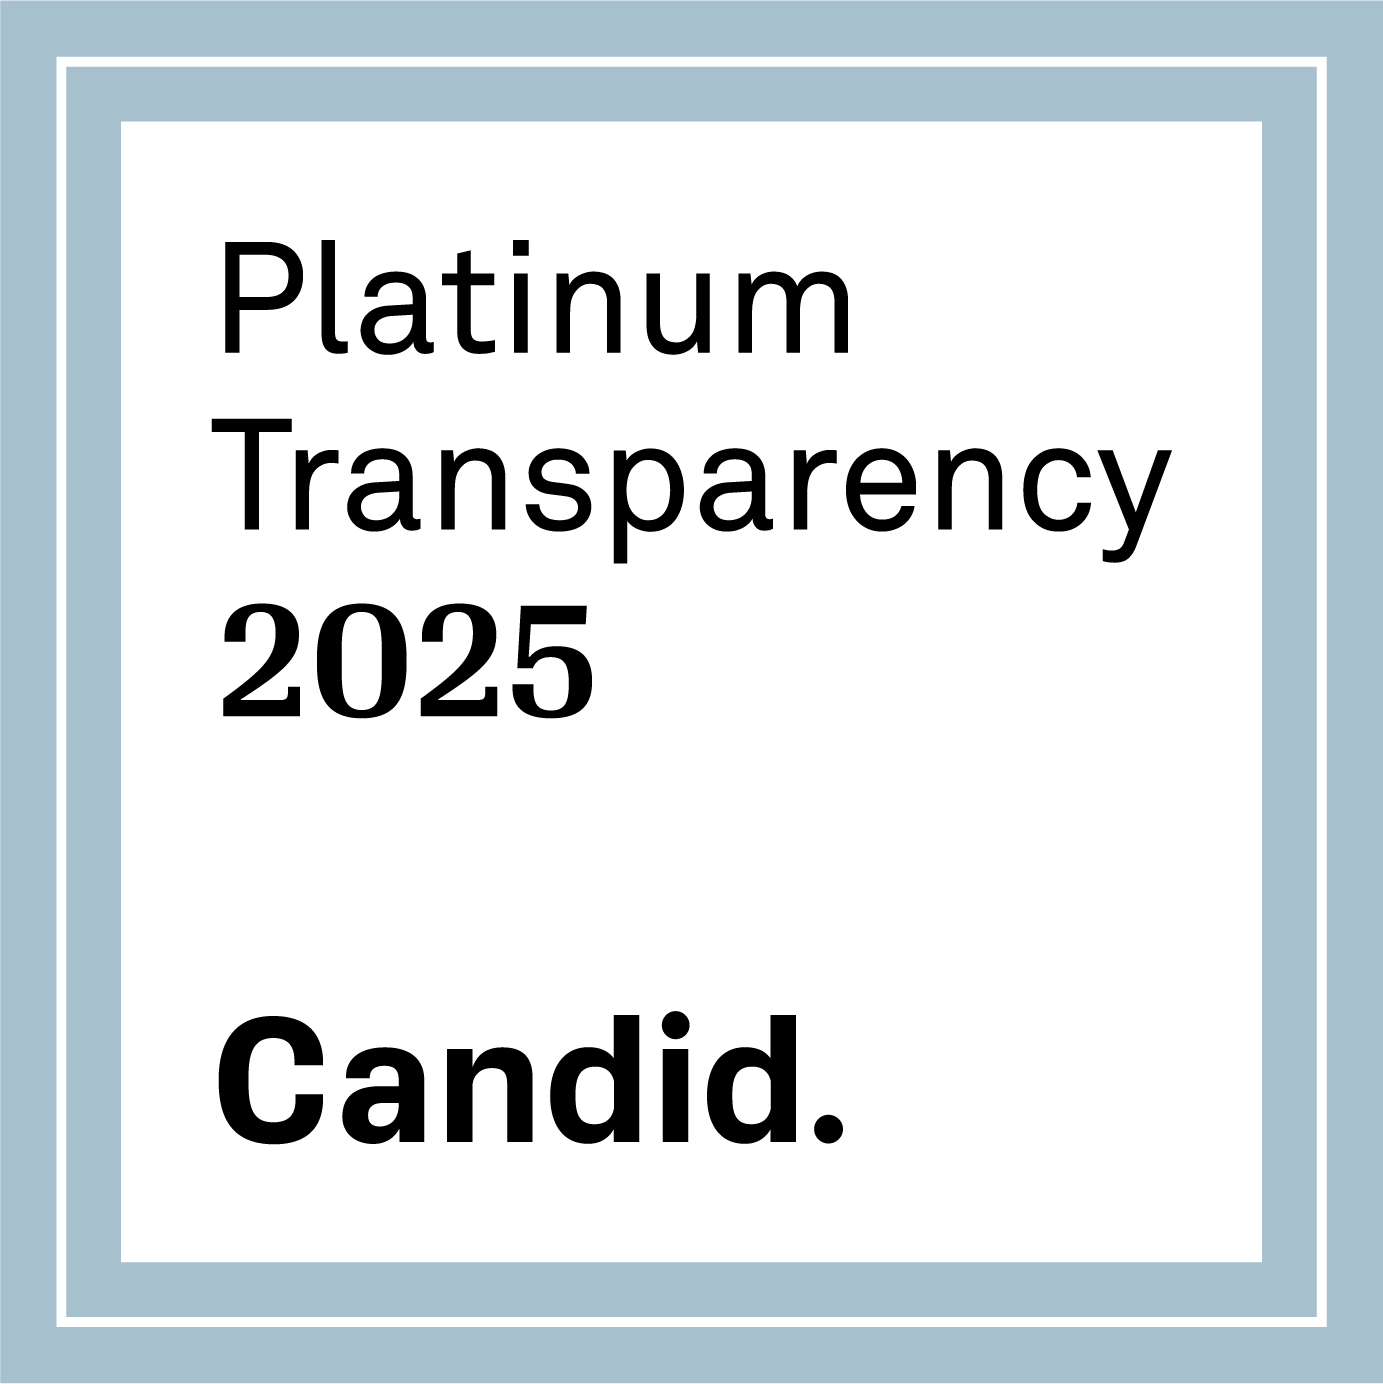
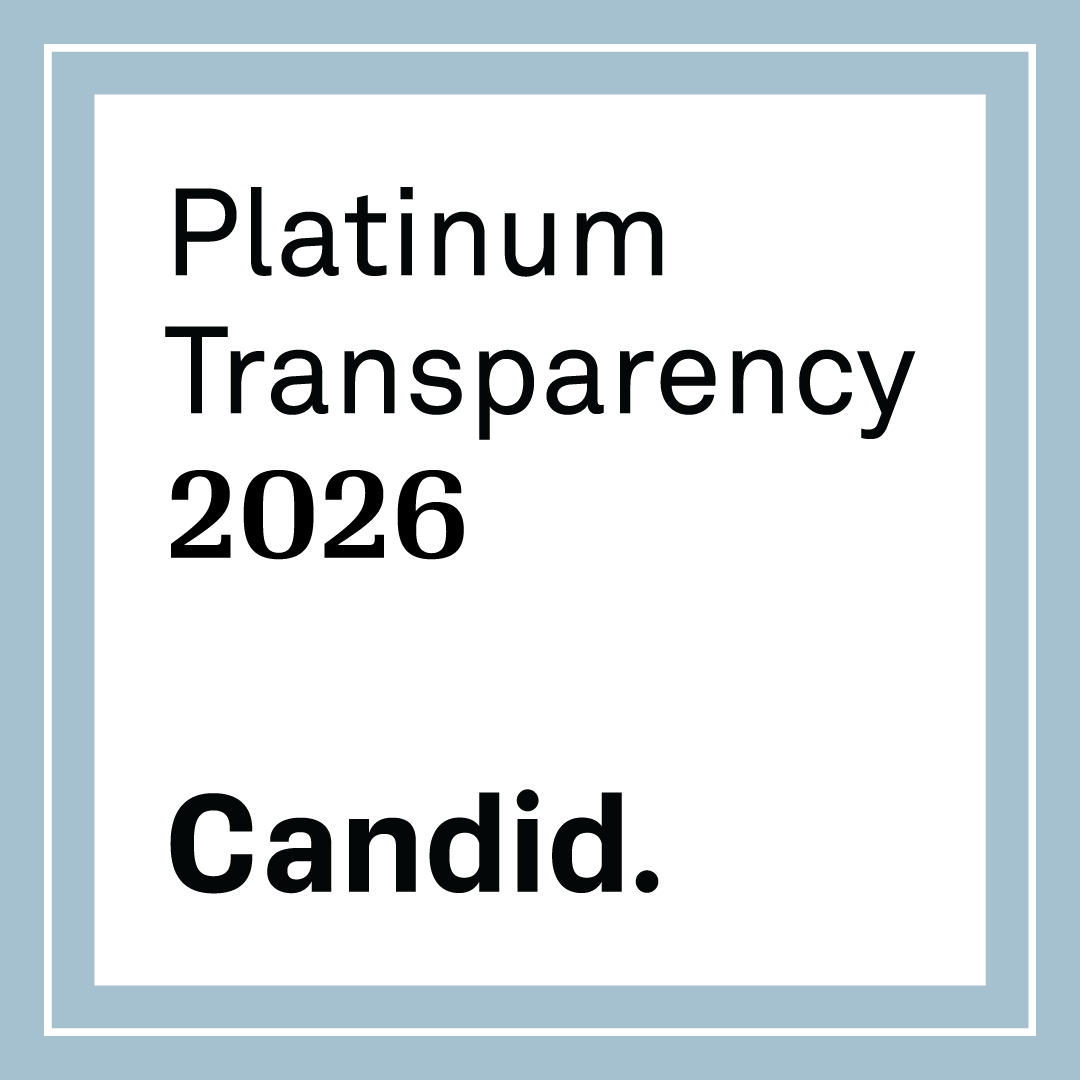
Update Candid Platinum Seal to 2026

Changed region(s): [[0.1528, 0.4278, 0.4278, 0.5194], [0.2139, 0.1833, 0.2444, 0.2139]]

diff --git a/index.html b/index.html
@@ -165,7 +165,7 @@
   <div class="confidence-inner">
     <div class="confidence-media">
       <a href="https://app.candid.org/profile/15850409/bigger-than-sports-corporation-99-4095911" target="_blank" rel="noopener" aria-label="View Bigger Than Sports on Candid">
-        <img src="candid-seal.png" alt="Candid Platinum Transparency 2025 Seal">
+        <img src="candid-seal.png" alt="Candid Platinum Transparency 2026 Seal">
       </a>
     </div>
     <div class="confidence-content">
